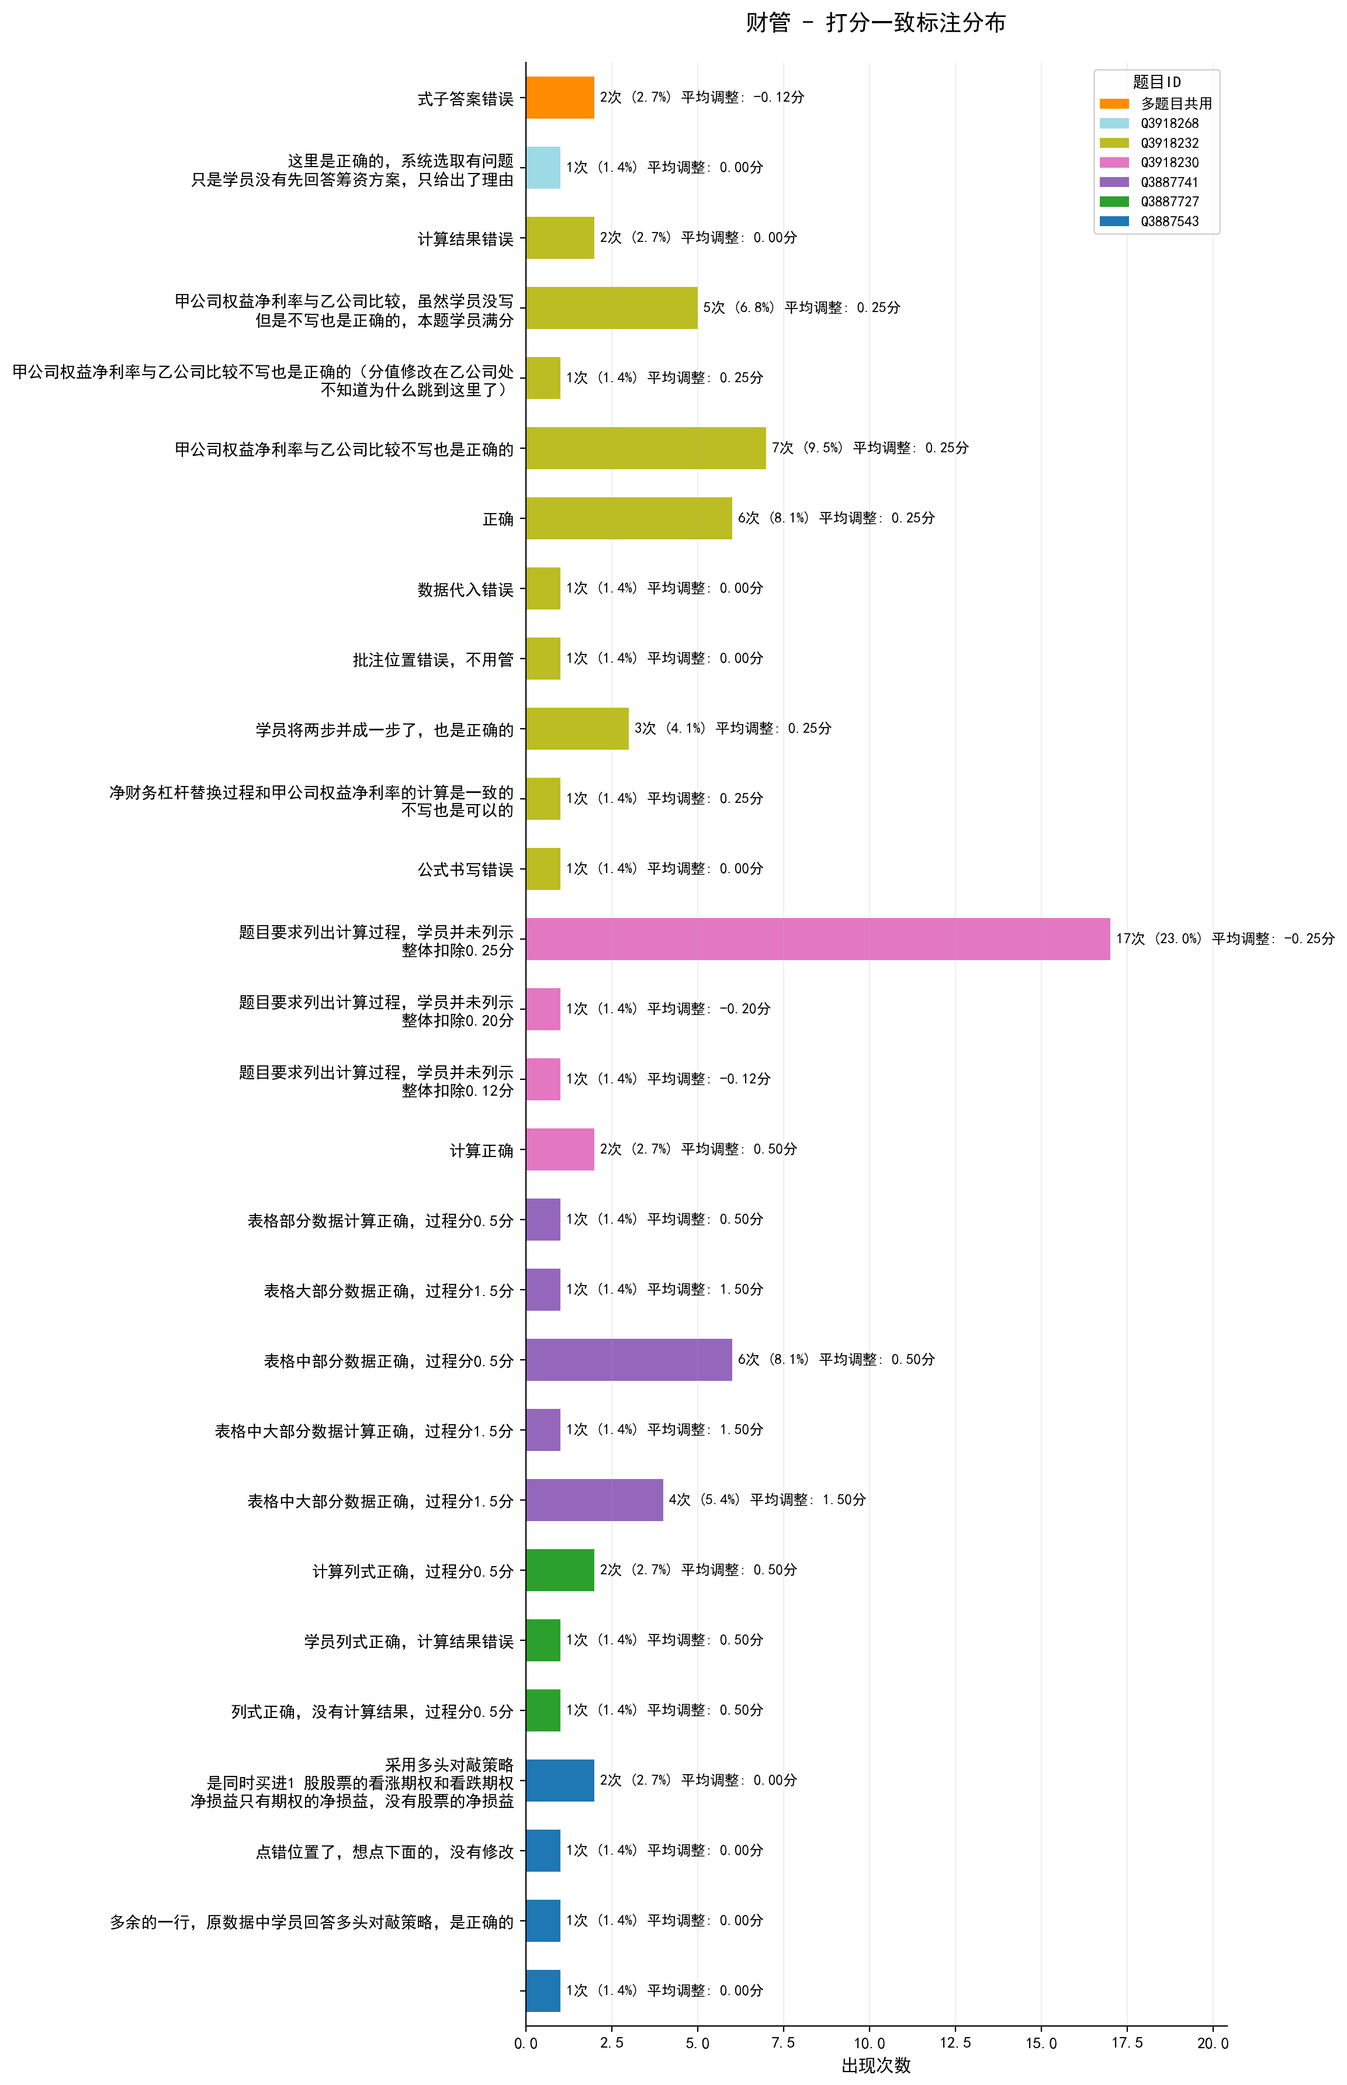
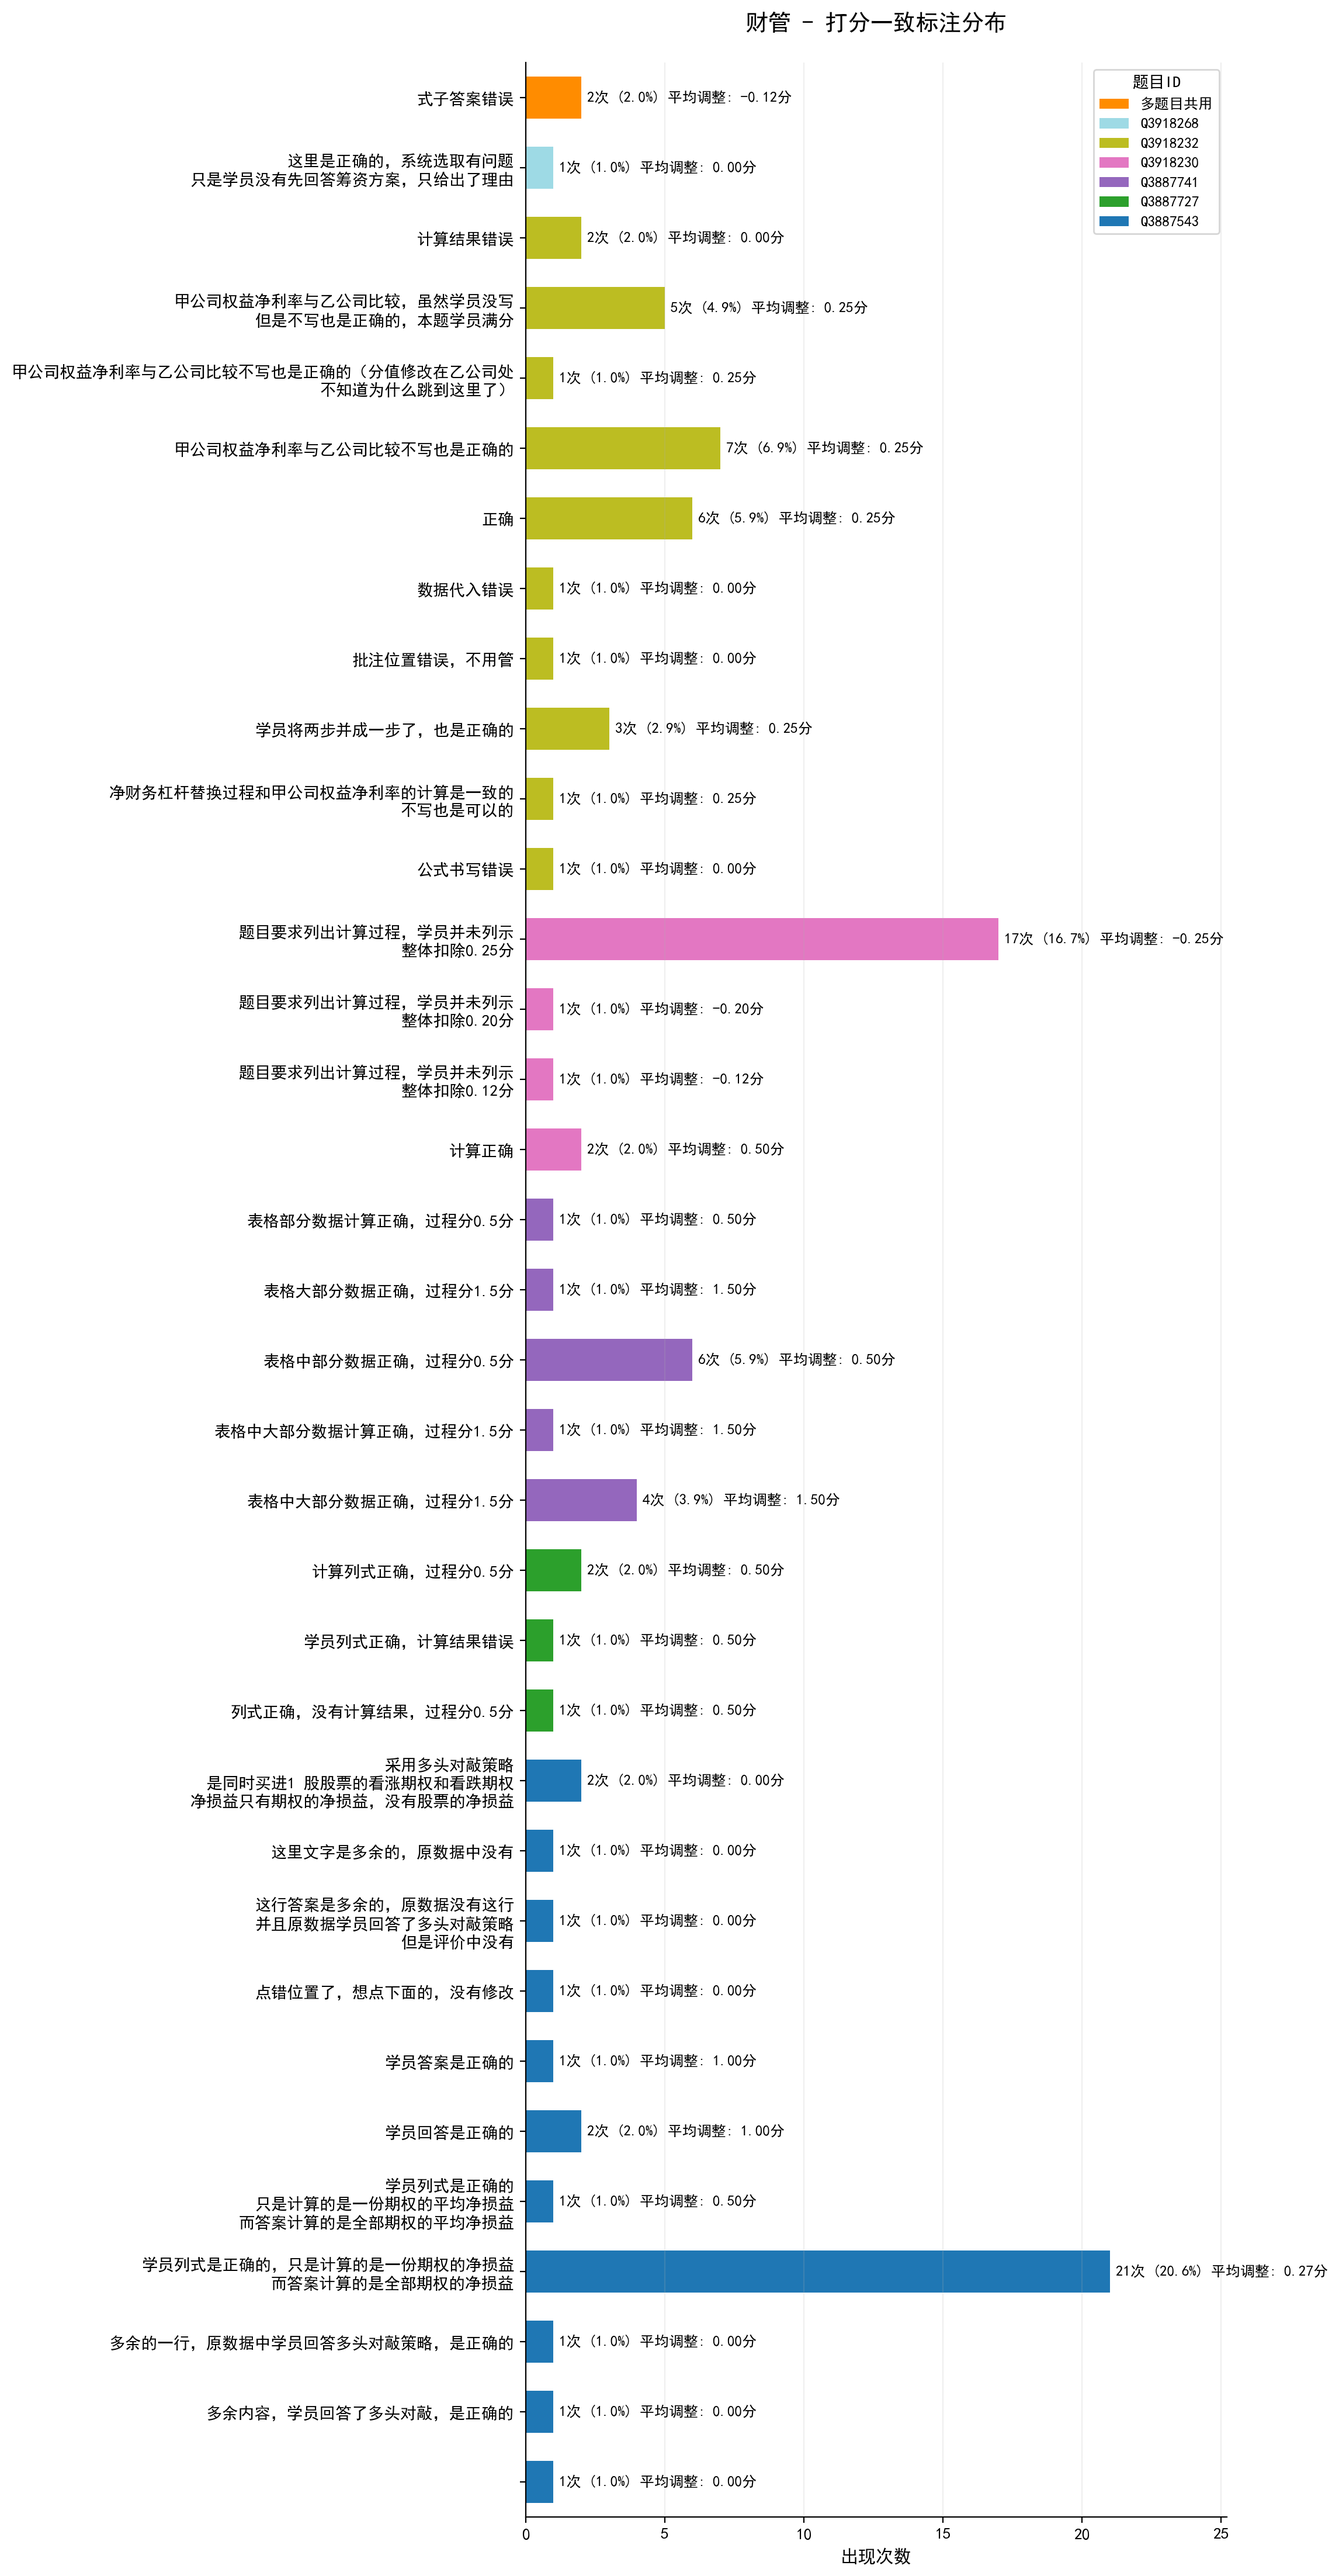
update data

diff --git a/report_output/report.html b/report_output/report.html
@@ -1590,7 +1590,7 @@
             </tr>
         
             <tr class="subject-end" data-subject="税法">
-        <td>税法</td><td>120</td><td>78.33%</td><td>91.67%</td><td>92.50%</td><td>96.67%</td><td>88.25%</td><td>91.89%</td><td>91.89%</td><td style="font-weight: bold; color: #221BE0;">91.89%</td>
+        <td>税法</td><td>120</td><td>78.33%</td><td>91.67%</td><td>92.50%</td><td>96.67%</td><td>88.35%</td><td>91.96%</td><td>91.96%</td><td style="font-weight: bold; color: #221BE0;">91.96%</td>
             </tr>
         
             <tr class="subject-end" data-subject="经济法">
@@ -1598,11 +1598,11 @@
             </tr>
         
             <tr class="subject-end" data-subject="财管">
-        <td>财管</td><td>180</td><td>52.22%</td><td>78.89%</td><td>83.33%</td><td>96.67%</td><td>84.90%</td><td>88.10%</td><td>88.94%</td><td style="font-weight: bold; color: #221BE0;">88.10%</td>
+        <td>财管</td><td>180</td><td>52.22%</td><td>84.44%</td><td>88.33%</td><td>98.33%</td><td>85.23%</td><td>89.39%</td><td>90.22%</td><td style="font-weight: bold; color: #221BE0;">89.39%</td>
             </tr>
         
             <tr class="subject-end" data-subject="会计">
-        <td>会计</td><td>182</td><td>71.43%</td><td>78.02%</td><td>86.26%</td><td>94.51%</td><td>89.94%</td><td>91.09%</td><td>93.36%</td><td style="font-weight: bold; color: #221BE0;">91.09%</td>
+        <td>会计</td><td>182</td><td>71.43%</td><td>78.02%</td><td>86.26%</td><td>94.51%</td><td>90.28%</td><td>91.38%</td><td>93.58%</td><td style="font-weight: bold; color: #221BE0;">91.38%</td>
             </tr>
         
             <tr class="subject-end" data-subject="战略">
@@ -1610,7 +1610,7 @@
             </tr>
         
             <tr class="subject-end" data-subject="总计">
-        <td>总计</td><td>702</td><td>67.09%</td><td>79.06%</td><td>83.76%</td><td>95.44%</td><td>88.22%</td><td>89.82%</td><td>91.53%</td><td style="font-weight: bold; color: #221BE0;">90.59%</td>
+        <td>总计</td><td>702</td><td>67.09%</td><td>80.48%</td><td>85.04%</td><td>95.87%</td><td>88.40%</td><td>90.17%</td><td>91.85%</td><td style="font-weight: bold; color: #221BE0;">90.94%</td>
             </tr>
         
         </tbody>
@@ -1675,7 +1675,7 @@
             </tr>
         
             <tr class="" data-subject="财管">
-        <td>财管</td><td>观点+计算</td><td>18</td><td>38.89%</td><td>38.89%</td><td>44.44%</td><td>77.78%</td><td>85.00%</td><td>85.00%</td>
+        <td>财管</td><td>观点+计算</td><td>18</td><td>38.89%</td><td>94.44%</td><td>94.44%</td><td>94.44%</td><td>85.00%</td><td>95.19%</td>
             </tr>
         
             <tr class="" data-subject="财管">
@@ -1715,15 +1715,15 @@
             </tr>
         
             <tr class="" data-subject="会计">
-        <td></td><td>计算+文本</td><td>18</td><td>77.78%</td><td>100.00%</td><td>100.00%</td><td>100.00%</td><td>88.24%</td><td>100.00%</td>
+        <td></td><td>计算+文本</td><td>18</td><td>77.78%</td><td>100.00%</td><td>100.00%</td><td>100.00%</td><td>88.89%</td><td>100.00%</td>
             </tr>
         
             <tr class="" data-subject="会计">
-        <td></td><td>分录</td><td>19</td><td>63.16%</td><td>89.47%</td><td>89.47%</td><td>94.74%</td><td>99.26%</td><td>99.26%</td>
+        <td></td><td>分录</td><td>19</td><td>63.16%</td><td>89.47%</td><td>89.47%</td><td>94.74%</td><td>99.42%</td><td>99.42%</td>
             </tr>
         
             <tr class="" data-subject="会计">
-        <td></td><td>计算+分录</td><td>30</td><td>86.67%</td><td>90.00%</td><td>90.00%</td><td>90.00%</td><td>95.86%</td><td>95.86%</td>
+        <td></td><td>计算+分录</td><td>30</td><td>86.67%</td><td>90.00%</td><td>90.00%</td><td>90.00%</td><td>96.00%</td><td>96.00%</td>
             </tr>
         
             <tr class="" data-subject="会计">
@@ -1814,8 +1814,8 @@
       <td>87 (48.3%)</td>
       <td>93 (51.7%)</td>
       <td>19 (20.4%)</td>
-      <td>19 (20.4%)</td>
-      <td>55 (59.1%)</td>
+      <td>9 (9.7%)</td>
+      <td>65 (69.9%)</td>
     </tr>
     <tr>
       <td>会计</td>
@@ -1976,7 +1976,7 @@
                 <div class="barchart-item" data-subject="财管" data-category="模型打分偏低">
                     <div class="chart-section">
                         <h5>财管 - 模型打分偏低</h5>
-                        <p class="chart-stats">记录数: 19 | 标注数: 37</p>
+                        <p class="chart-stats">记录数: 9 | 标注数: 9</p>
                         <div class="chart-scroll-container">
                             <img src="财管_low_model_smart.png" alt="财管模型打分偏低标注分布" 
                                  class="scrollable-chart">
@@ -1987,7 +1987,7 @@
                 <div class="barchart-item" data-subject="财管" data-category="打分一致">
                     <div class="chart-section">
                         <h5>财管 - 打分一致</h5>
-                        <p class="chart-stats">记录数: 55 | 标注数: 74</p>
+                        <p class="chart-stats">记录数: 65 | 标注数: 102</p>
                         <div class="chart-scroll-container">
                             <img src="财管_consistent_smart.png" alt="财管打分一致标注分布" 
                                  class="scrollable-chart">
